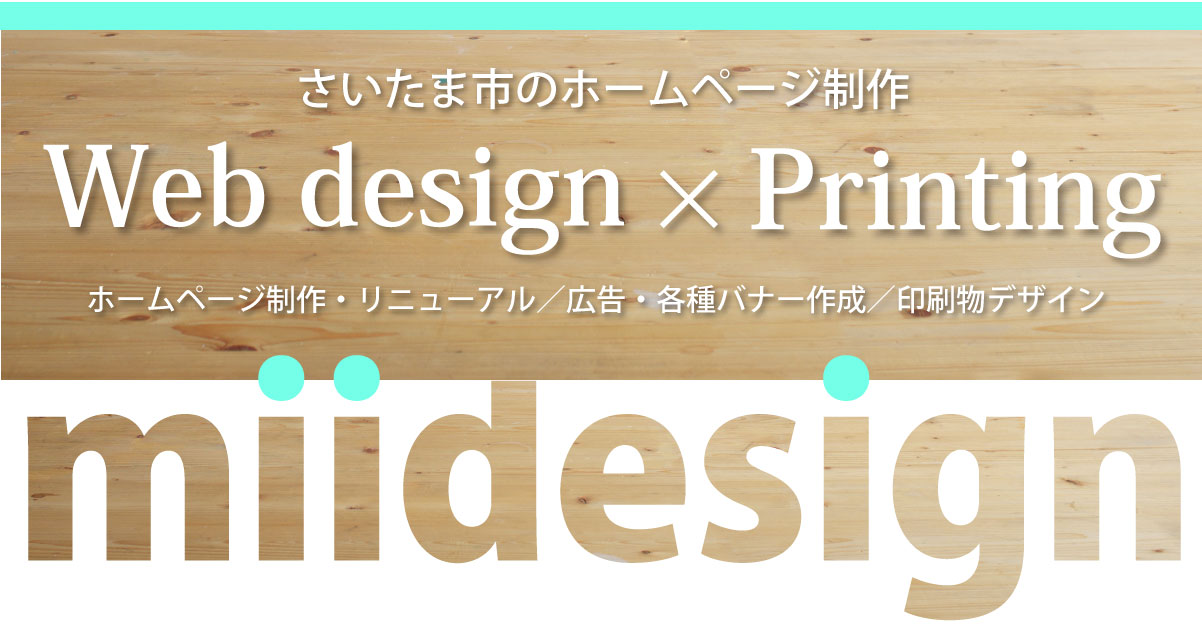
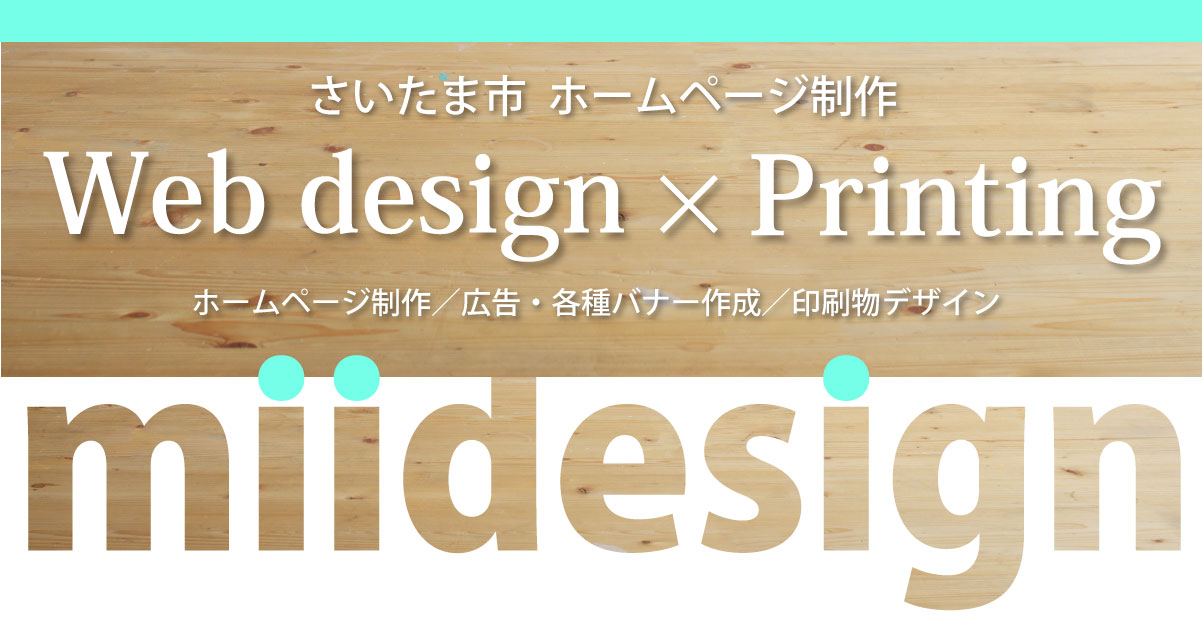
13回目
13回目Twitterカード完成！

diff --git a/index.html b/index.html
@@ -7,8 +7,10 @@
 <meta name="twitter:card" content="summary_large_image" />
 <meta name="twitter:site" content="@mii_dtp_web" /> <!--②-->
 <meta property="og:url" content="https://miidesign.github.io/web/" /> <!--③-->
-<meta property="og:title" content="ホームページ制作 miidesign" /> <!--④-->
-<meta property="og:description" content="さいたま市のホームページ制作承ります" /> <!--⑤-->
+<meta property="og:title" content="ホームページ制作はmiidesignへ" /> <!--④-->
+<meta property="og:description" content="ホームページ制作おまかせください。
+さいたま市の企業様・店舗様・個人事業主様を応援いたします。
+お気軽にご相談ください。" /> <!--⑤-->
 <meta property="og:image" content="https://github.com/miidesign/web/blob/master/images/twitter-mii.jpg"> <!--⑥-->
 <!-- Twitterカード終わり -->
 
